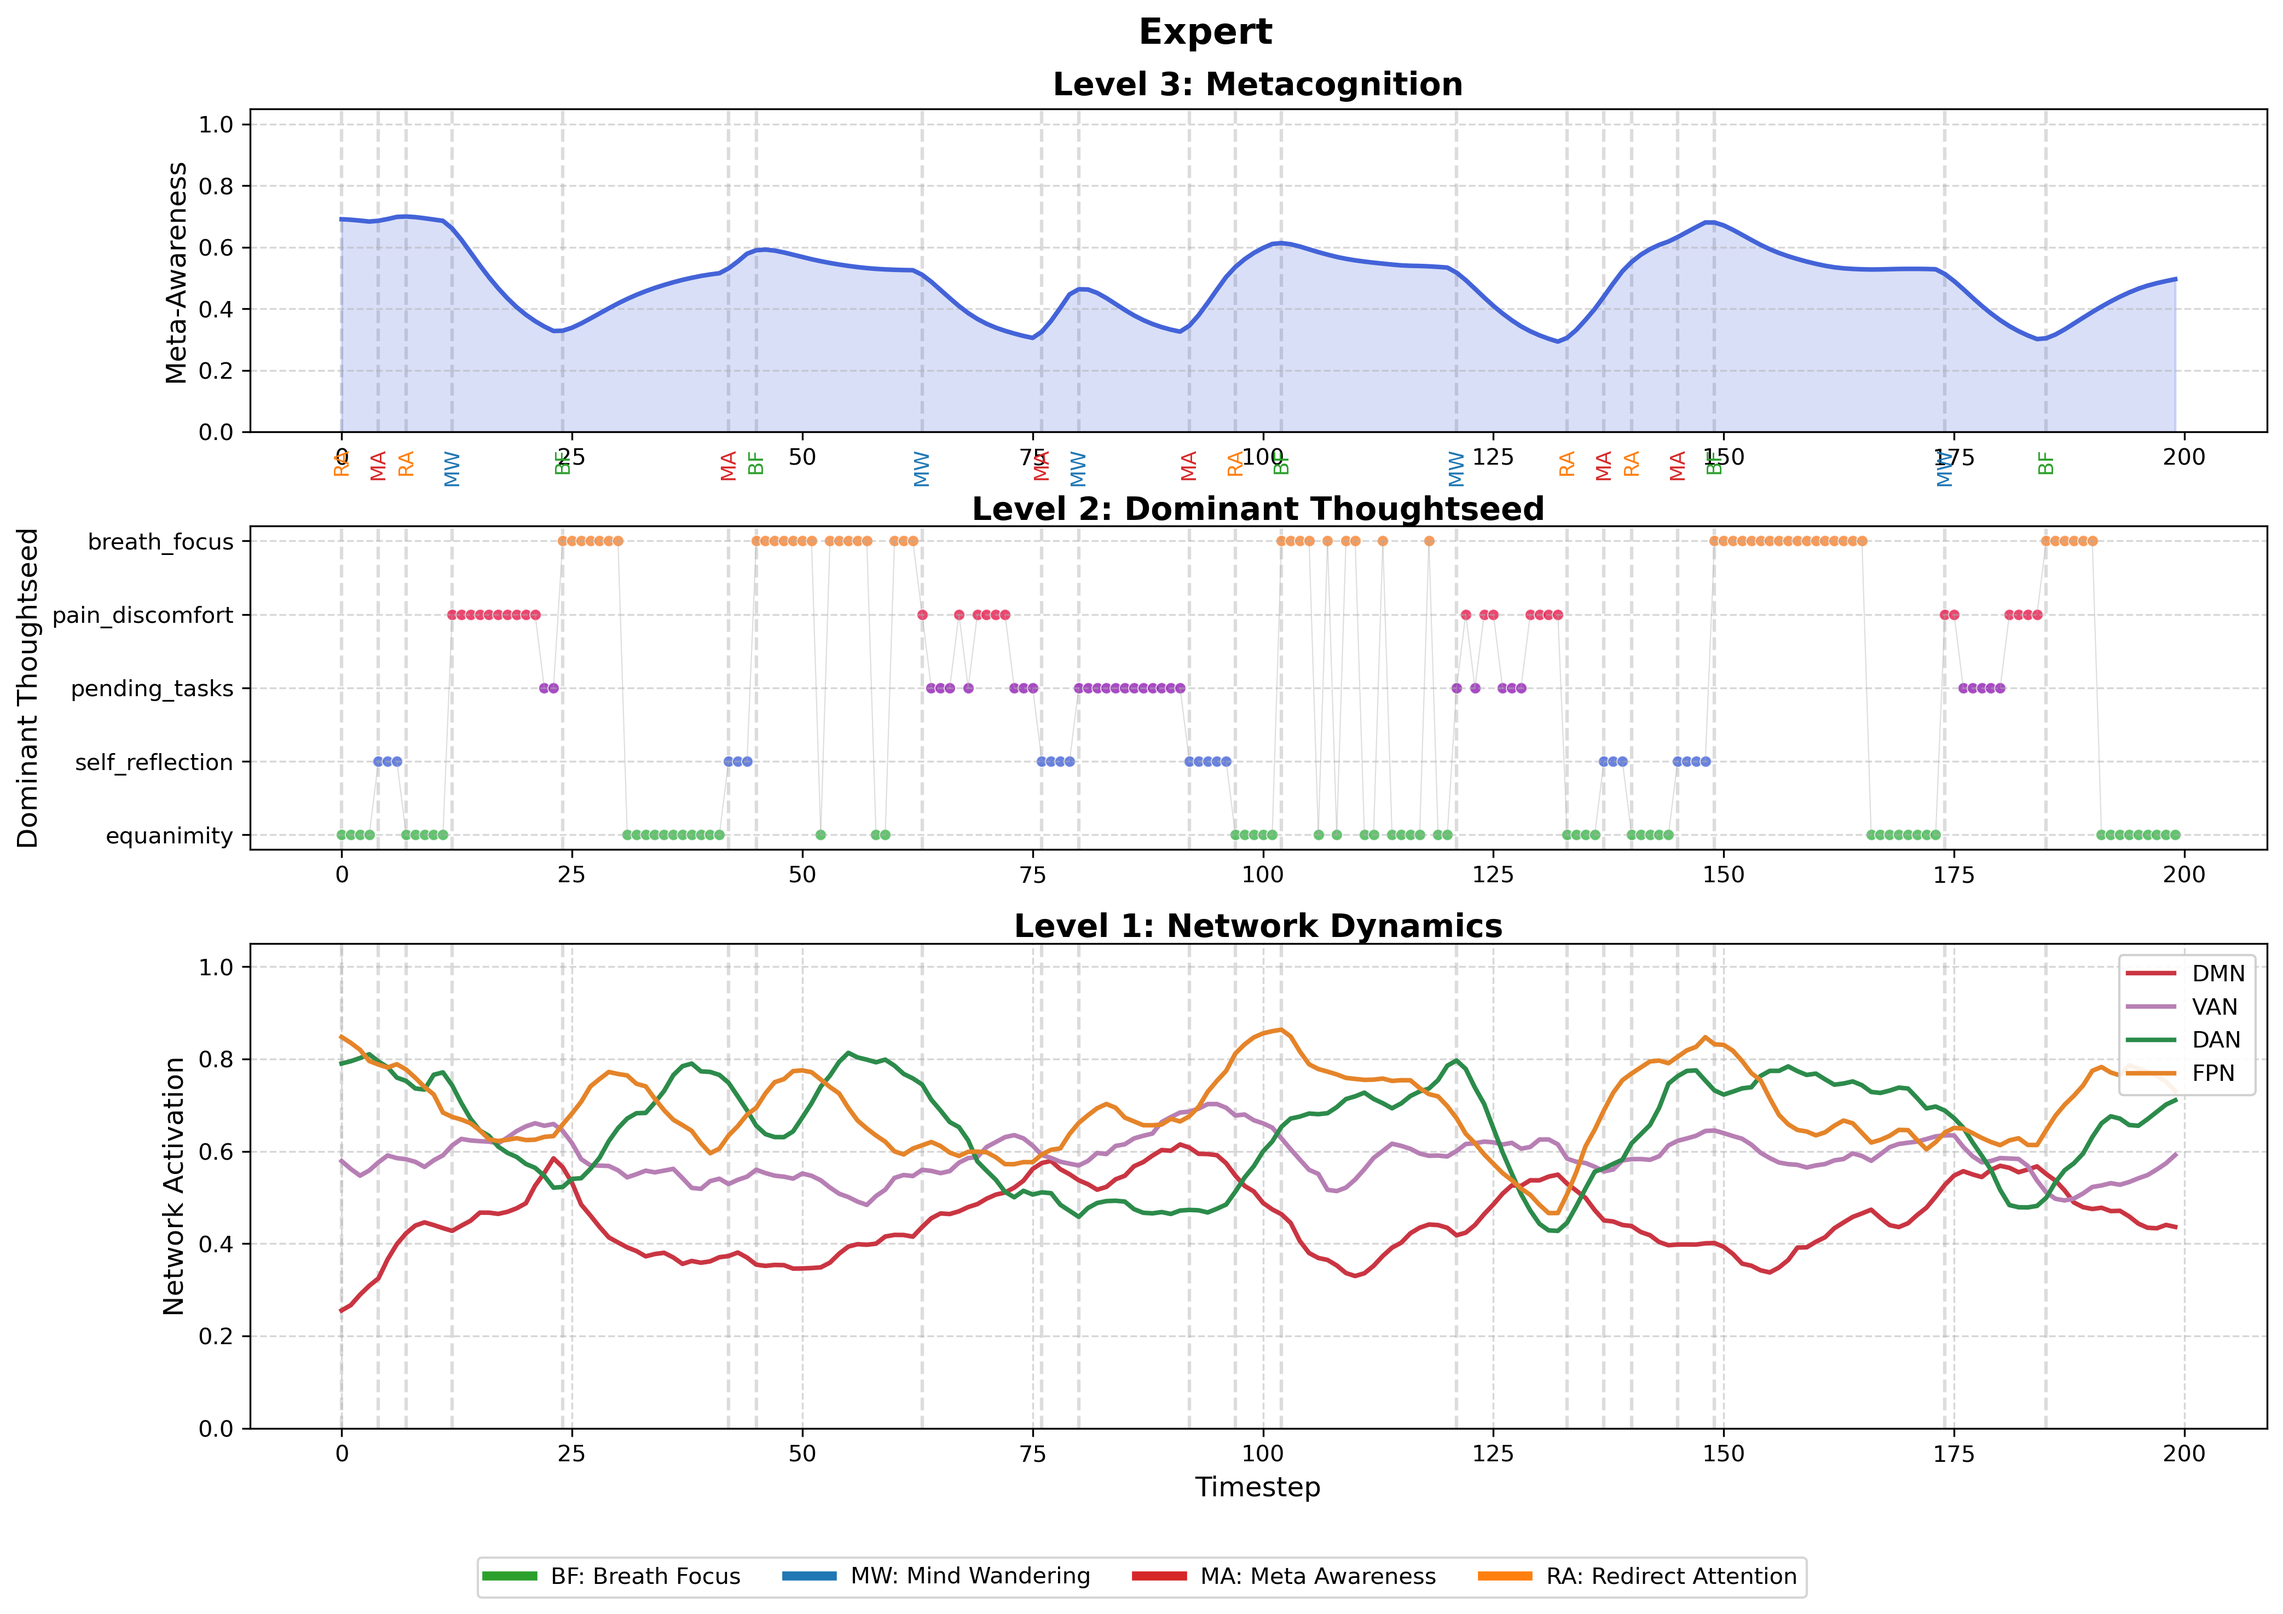
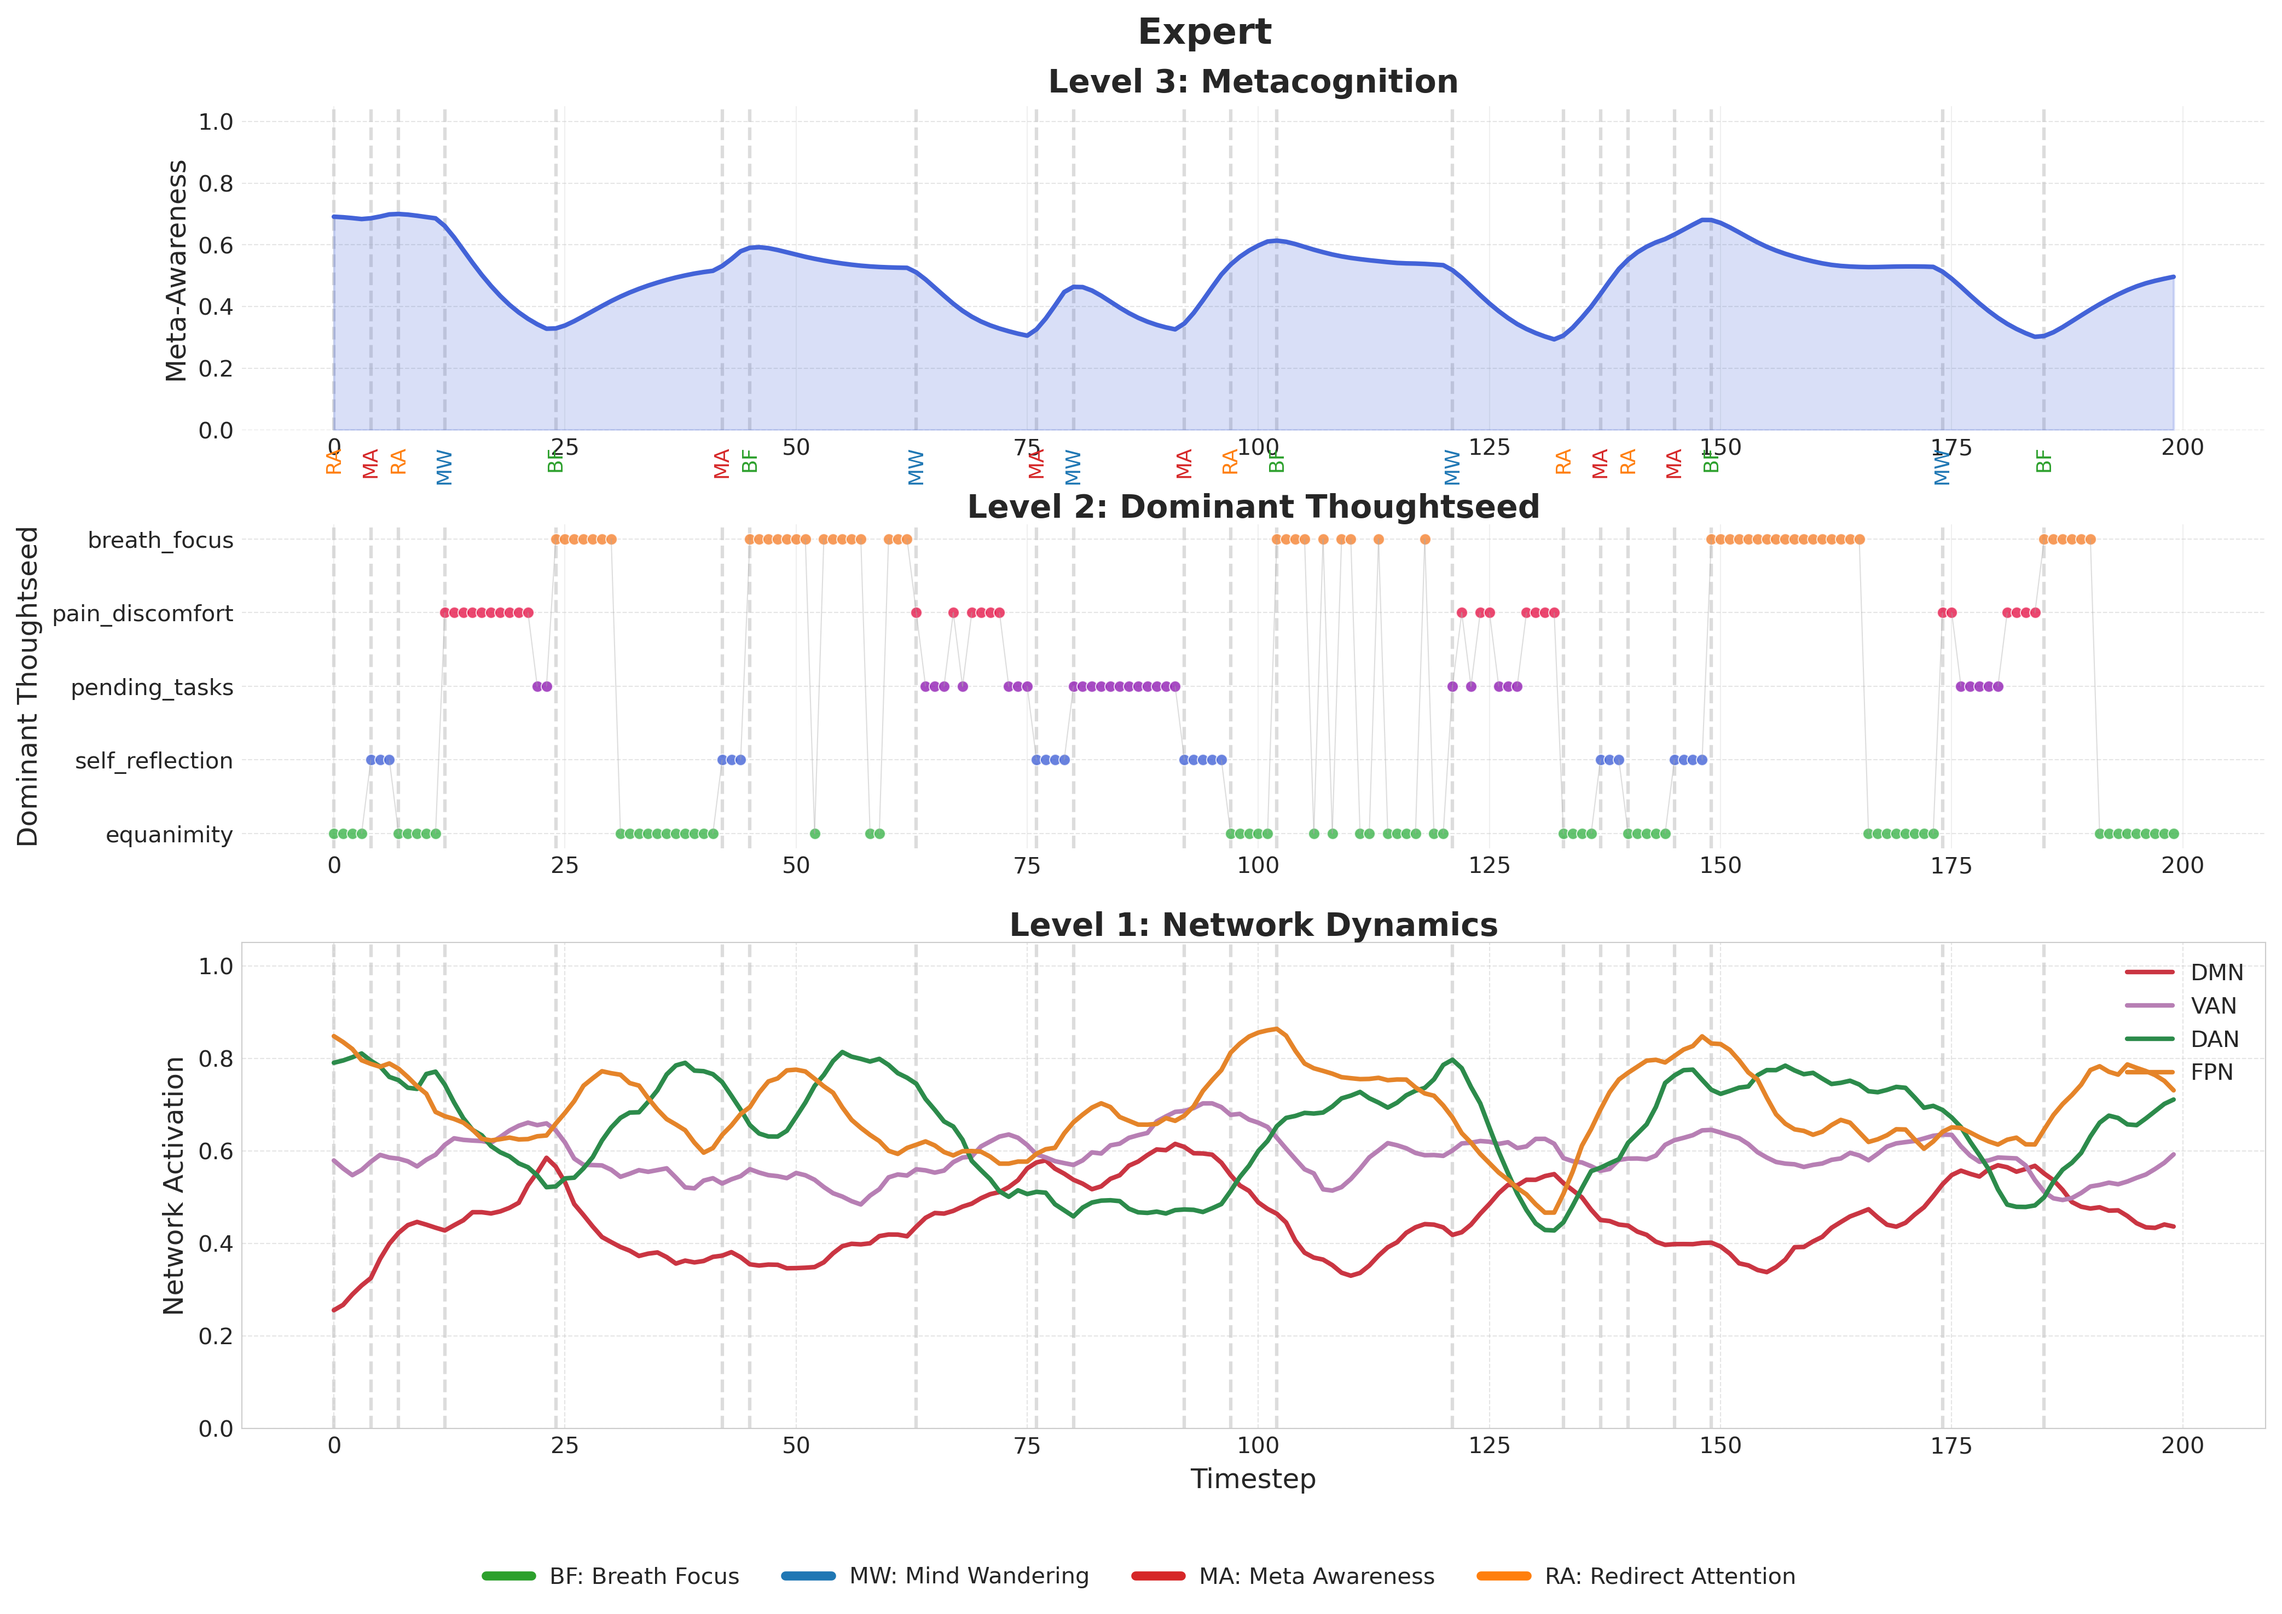
updated comments and enabled reproducibility

diff --git a/viz/plot_diagnostics.py b/viz/plot_diagnostics.py
@@ -60,6 +60,10 @@ def plot_hierarchy(data, save_path=None):
     ax1.set_title('Level 3: Metacognition', fontsize=14, fontweight='bold')
     ax1.set_ylim(0, 1.05)
     ax1.grid(True, axis='y', linestyle='--', alpha=0.5)
+    # Remove axis borders/spines for a cleaner look
+    for spine in ax1.spines.values():
+        spine.set_visible(False)
+    ax1.patch.set_visible(False)
     
     # 2. Level 2: Dominant Thoughtseed
     ax2 = fig.add_subplot(gs[1], sharex=ax1)
@@ -89,6 +93,10 @@ def plot_hierarchy(data, save_path=None):
     ax2.set_ylabel('Dominant Thoughtseed', fontsize=12)
     ax2.set_title('Level 2: Dominant Thoughtseed', fontsize=14, fontweight='bold', pad=-15)
     ax2.grid(True, axis='y', linestyle='--', alpha=0.5)
+    # Remove axis borders/spines for consistency
+    for spine in ax2.spines.values():
+        spine.set_visible(False)
+    ax2.patch.set_visible(False)
     
     # 3. Level 1: Network Activations
     ax3 = fig.add_subplot(gs[2], sharex=ax1)
@@ -132,7 +140,7 @@ def plot_hierarchy(data, save_path=None):
     
     # Create a separate legend for state abbreviations below the plot
     state_legend = fig.legend(handles=state_legend_elements, loc='lower center', 
-                            fontsize=10, frameon=True, ncol=4, bbox_to_anchor=(0.5, 0.01))
+                            fontsize=10, frameon=False, ncol=4, bbox_to_anchor=(0.5, 0.01))
     
     ax3.set_xlabel('Timestep', fontsize=12)
     ax3.set_ylabel('Network Activation', fontsize=12)
@@ -141,7 +149,7 @@ def plot_hierarchy(data, save_path=None):
     ax3.grid(True, linestyle='--', alpha=0.5)
     
     # Create a more elegant legend
-    ax3.legend(loc='upper right', framealpha=0.9, fancybox=True, fontsize=10)
+    ax3.legend(loc='upper right', frameon=False, fancybox=False, fontsize=10)
     
     # Add overall title
     experience = data.get('experience_level', 'default')
